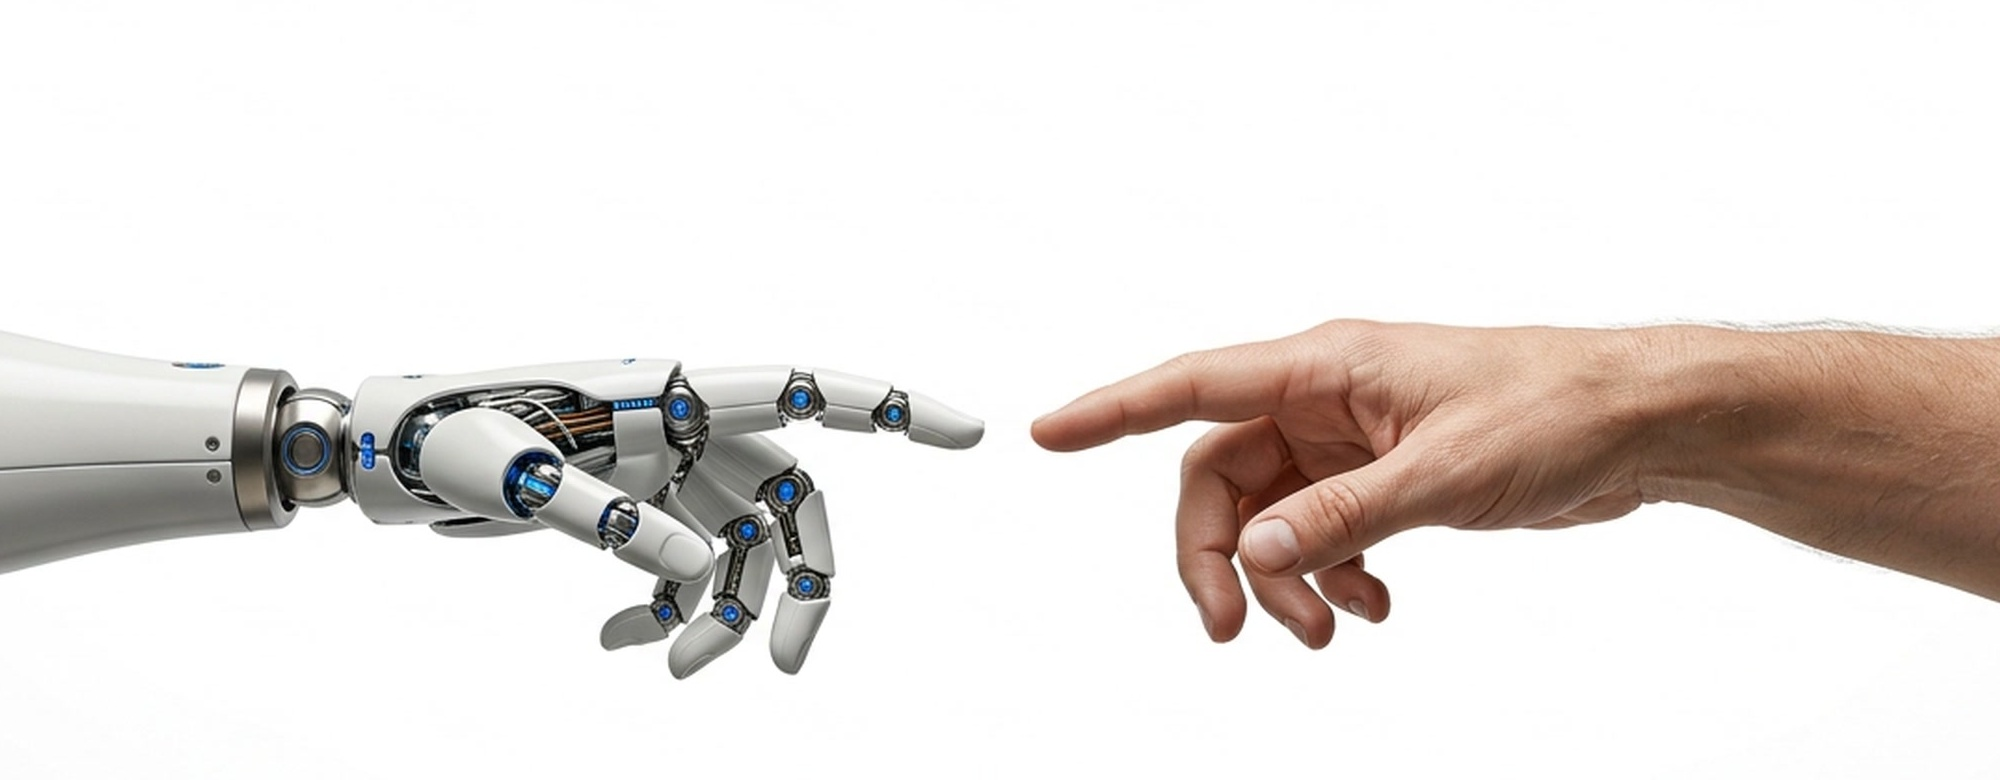
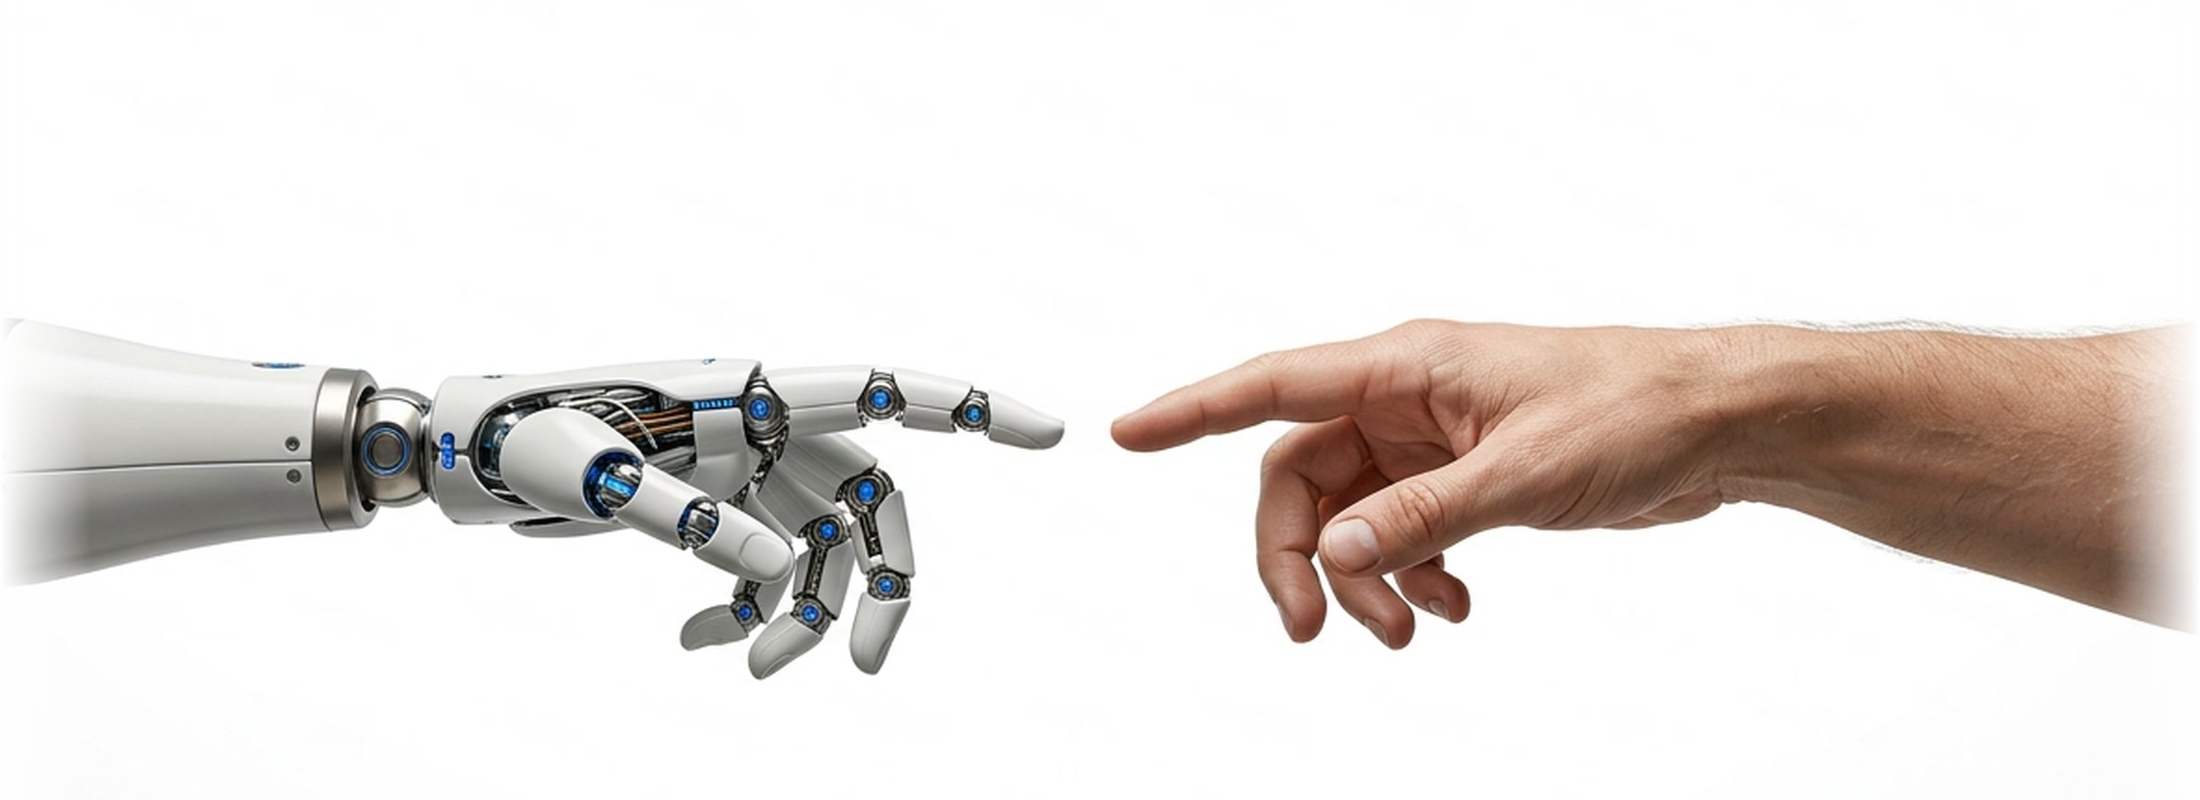
feat(hero): enrich mobile hero into a high-end, professional hero page
- Feather edges of mobile hands image into pure white to eliminate rectangular box borders
- Add subtle luminous energetic connection aura behind the fingertips on mobile
- Add category pill badge (Next-Gen Business Automation) and value subtitle on mobile
- Add micro trust proof row (24/7 Voice Agents, Smart Workflows, Zero Downtime)
- Desktop layout remains 100% untouched

Changed region(s): [[0.0, 0.4, 1.0, 0.8615]]

diff --git a/src/components/HeroSection.tsx b/src/components/HeroSection.tsx
@@ -15,9 +15,9 @@ export default function HeroSection() {
   return (
     <section
       id="home"
-      className="relative w-full min-h-[90svh] sm:min-h-[92vh] lg:min-h-screen bg-white flex flex-col justify-center lg:justify-between overflow-hidden select-none"
+      className="relative w-full min-h-[92svh] sm:min-h-[94vh] lg:min-h-screen bg-white flex flex-col justify-between overflow-hidden select-none"
     >
-      {/* ─── Desktop Background Visual (lg+ screens: exact realistic image from reference) ─── */}
+      {/* ─── Desktop Background Visual (lg+ screens: 100% unchanged) ─── */}
       <div
         aria-hidden="true"
         className="hidden lg:flex absolute inset-0 pointer-events-none items-center justify-center overflow-hidden z-10"
@@ -31,9 +31,22 @@ export default function HeroSection() {
         />
       </div>
 
-      {/* ─── Top: Heading positioned cleanly above the hands ─── */}
-      <div className="relative z-30 pt-16 sm:pt-20 lg:pt-32 pb-1 sm:pb-2 lg:pb-0 px-5 sm:px-6 text-center max-w-4xl mx-auto w-full">
-        <h1 className="text-3xl sm:text-4xl md:text-5xl lg:text-[56px] tracking-tight max-w-2xl mx-auto leading-[1.15]">
+      {/* ─── Mobile Subtle Ambient Background Lighting ─── */}
+      <div
+        aria-hidden="true"
+        className="lg:hidden absolute top-0 left-1/2 -translate-x-1/2 w-full max-w-lg h-80 bg-[radial-gradient(ellipse_at_top,_var(--tw-gradient-stops))] from-neutral-100/70 via-white to-transparent pointer-events-none z-0"
+      />
+
+      {/* ─── Top: Heading Section ─── */}
+      <div className="relative z-30 pt-16 sm:pt-20 lg:pt-32 px-5 sm:px-6 text-center max-w-4xl mx-auto w-full">
+        {/* Mobile Badge: introduces next-gen AI tech */}
+        <div className="lg:hidden inline-flex items-center gap-2 px-3 py-1 mb-2.5 rounded-full bg-neutral-100/90 border border-neutral-200/80 text-[11px] font-medium text-neutral-700 shadow-2xs backdrop-blur-sm">
+          <span className="flex h-1.5 w-1.5 rounded-full bg-emerald-500 animate-pulse" />
+          <span>Next-Gen Business Automation</span>
+        </div>
+
+        {/* Main Heading */}
+        <h1 className="text-3xl sm:text-4xl md:text-5xl lg:text-[56px] tracking-tight max-w-2xl mx-auto leading-[1.14]">
           <span className="block text-neutral-500 font-light">
             Make Your Business
           </span>
@@ -41,25 +54,34 @@ export default function HeroSection() {
             Work Smarter.
           </span>
         </h1>
+
+        {/* Mobile Subtitle: gives context and eliminates empty dead space */}
+        <p className="lg:hidden mt-2.5 text-xs sm:text-sm text-neutral-600 max-w-xs sm:max-w-md mx-auto leading-relaxed">
+          AI Voice Agents & Autonomous Workflows engineered to scale your operations 24/7.
+        </p>
       </div>
 
-      {/* ─── Mobile & Tablet Illustration (< lg): realistic hands with complete fingers, no cropping ─── */}
+      {/* ─── Mobile Hands Illustration: prominent, complete fingers, luminous aura ─── */}
       <div
         aria-hidden="true"
-        className="lg:hidden relative z-20 w-full px-3 sm:px-6 my-2 sm:my-3 flex items-center justify-center select-none pointer-events-none"
+        className="lg:hidden relative z-20 w-full my-auto py-2 sm:py-3 flex items-center justify-center select-none pointer-events-none"
       >
+        {/* Subtle luminous energetic glow behind connection point */}
+        <div className="absolute w-44 h-24 bg-gradient-to-r from-orange-400/15 via-amber-300/20 to-blue-400/15 rounded-full blur-2xl pointer-events-none -z-10" />
+
         {/* eslint-disable-next-line @next/next/no-img-element */}
         <img
           src="/images/hero-banner-realistic-mobile.jpg"
           alt="Realistic robotic hand on left and realistic human hand on right reaching toward each other"
-          className="w-full max-w-[480px] h-auto object-contain select-none pointer-events-none mx-auto"
+          className="w-full max-w-[540px] h-auto object-contain select-none pointer-events-none mx-auto"
           loading="eager"
         />
       </div>
 
-      {/* ─── Bottom: CTAs positioned with comfortable spacing below the hands ─── */}
-      <div className="relative z-30 pt-2 sm:pt-4 lg:pt-0 pb-6 sm:pb-10 lg:pb-20 px-6 text-center max-w-4xl mx-auto w-full pointer-events-auto">
-        <div className="flex flex-col sm:flex-row items-center justify-center gap-3.5 sm:gap-4 w-full max-w-[280px] sm:max-w-none mx-auto">
+      {/* ─── Bottom: CTAs & Trust Badges ─── */}
+      <div className="relative z-30 pb-6 sm:pb-10 lg:pb-20 px-6 text-center max-w-4xl mx-auto w-full pointer-events-auto">
+        {/* Primary CTA Buttons */}
+        <div className="flex flex-col sm:flex-row items-center justify-center gap-3 sm:gap-4 w-full max-w-[290px] sm:max-w-none mx-auto">
           <a
             href={siteConfig.whatsappUrl}
             target="_blank"
@@ -80,6 +102,30 @@ export default function HeroSection() {
           >
             Explore How It Works
           </a>
+        </div>
+
+        {/* Mobile Micro Trust Row: fills bottom white space with credibility */}
+        <div className="lg:hidden mt-4 pt-3 border-t border-neutral-100 flex items-center justify-center gap-3 sm:gap-4 text-[11px] text-neutral-500">
+          <span className="inline-flex items-center gap-1.5 font-medium">
+            <svg className="w-3.5 h-3.5 text-emerald-600" fill="none" viewBox="0 0 24 24" stroke="currentColor" strokeWidth="2.5">
+              <path strokeLinecap="round" strokeLinejoin="round" d="M5 13l4 4L19 7" />
+            </svg>
+            24/7 Voice Agents
+          </span>
+          <span className="text-neutral-300">•</span>
+          <span className="inline-flex items-center gap-1.5 font-medium">
+            <svg className="w-3.5 h-3.5 text-emerald-600" fill="none" viewBox="0 0 24 24" stroke="currentColor" strokeWidth="2.5">
+              <path strokeLinecap="round" strokeLinejoin="round" d="M5 13l4 4L19 7" />
+            </svg>
+            Smart Workflows
+          </span>
+          <span className="text-neutral-300">•</span>
+          <span className="inline-flex items-center gap-1.5 font-medium">
+            <svg className="w-3.5 h-3.5 text-emerald-600" fill="none" viewBox="0 0 24 24" stroke="currentColor" strokeWidth="2.5">
+              <path strokeLinecap="round" strokeLinejoin="round" d="M5 13l4 4L19 7" />
+            </svg>
+            Zero Downtime
+          </span>
         </div>
       </div>
     </section>
